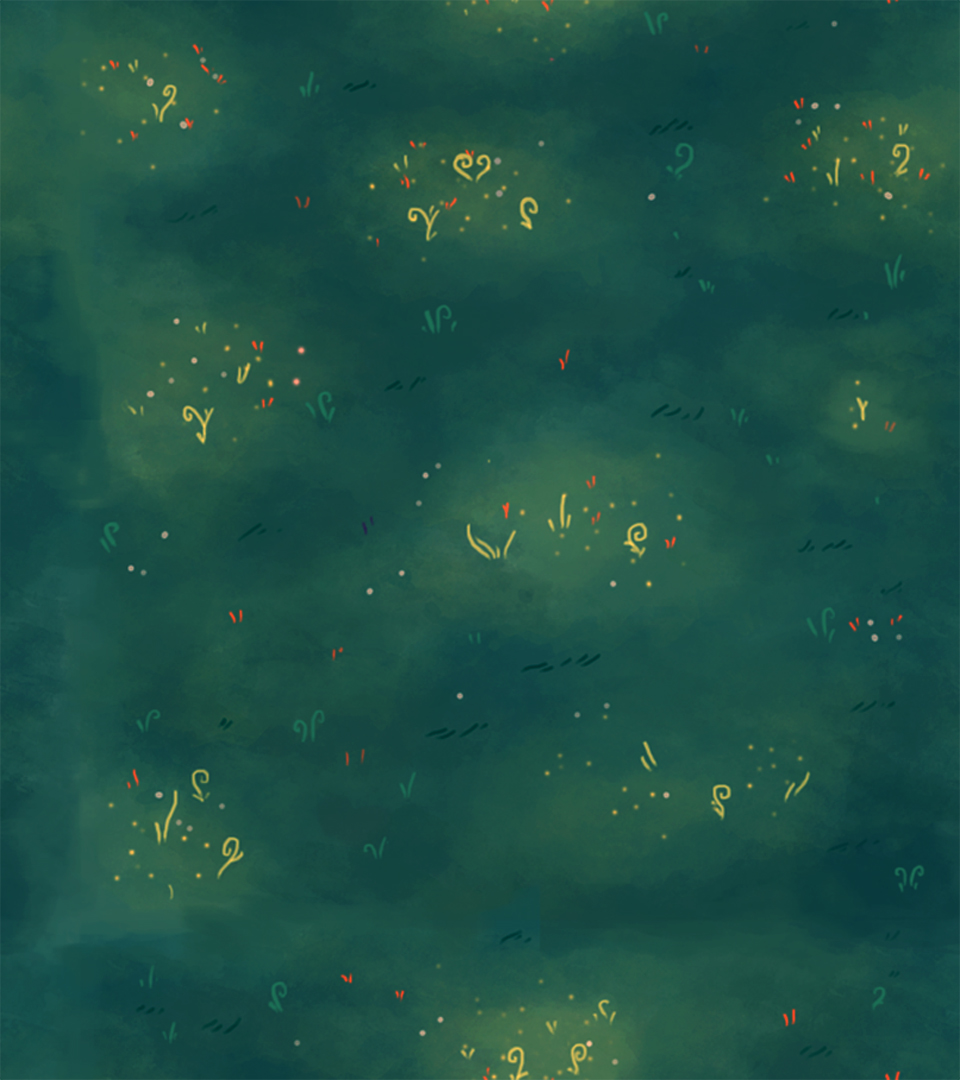
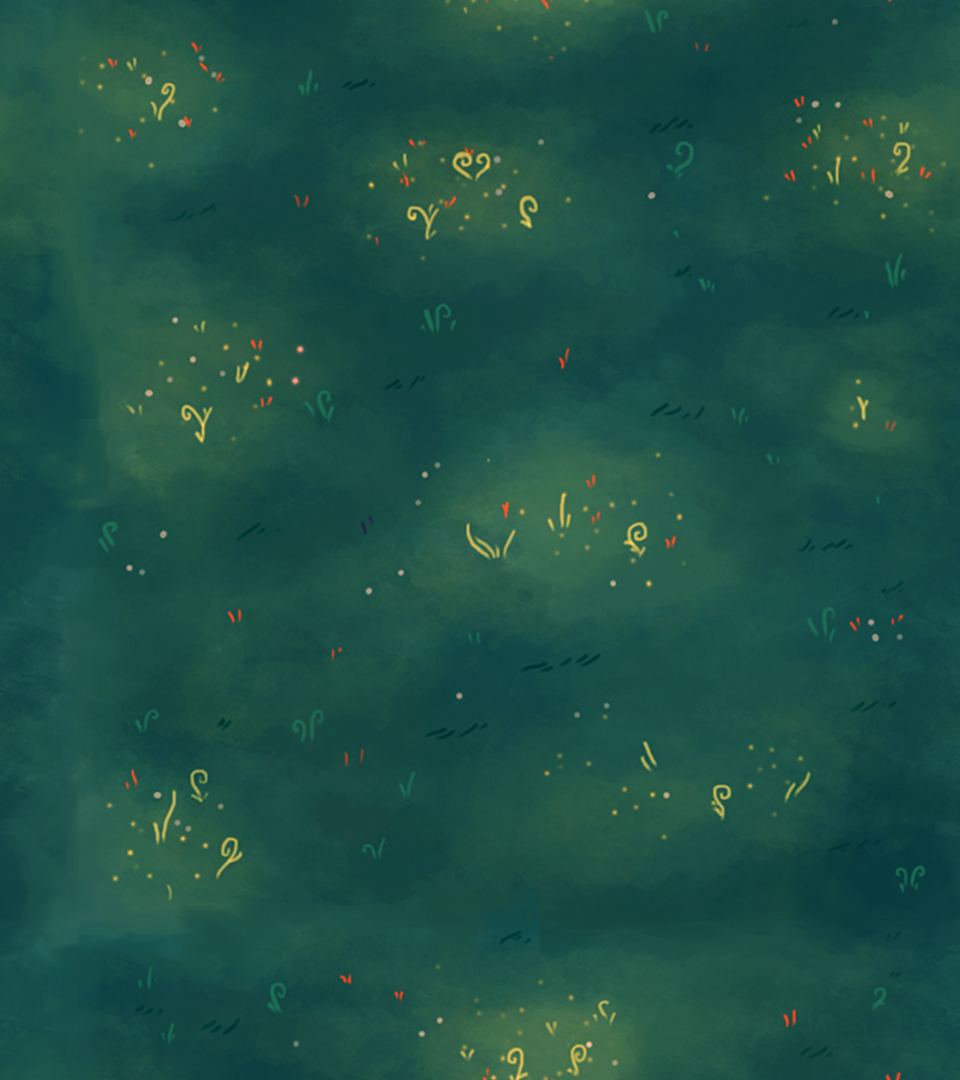
lines on night grass fix

diff --git a/core/src/edu/cornell/gdiac/downstream/WorldController.java b/core/src/edu/cornell/gdiac/downstream/WorldController.java
@@ -377,7 +377,7 @@ public abstract class WorldController implements Screen {
 		assets.add(HELP_TEXTURE);
 		
 
-		referenceC.a = .3f;
+		referenceC.a = 0f;
 
 		// Load the font
 		FreetypeFontLoader.FreeTypeFontLoaderParameter size2Params = new FreetypeFontLoader.FreeTypeFontLoaderParameter();
@@ -586,7 +586,7 @@ public abstract class WorldController implements Screen {
 		setBackground(createTexture(manager, BACKGROUND_FILE_N, false).getTexture(), 1);
 		getBackground(1).setWrap(TextureWrap.Repeat, TextureWrap.Repeat);
 
-		overlay = createTexture(manager, BACKGROUND_FILE_N, true).getTexture();
+		overlay = createTexture(manager, OVERLAY_FILE, true).getTexture();
 		overlay.setWrap(TextureWrap.Repeat, TextureWrap.Repeat);
 
 		// Allocate the font
